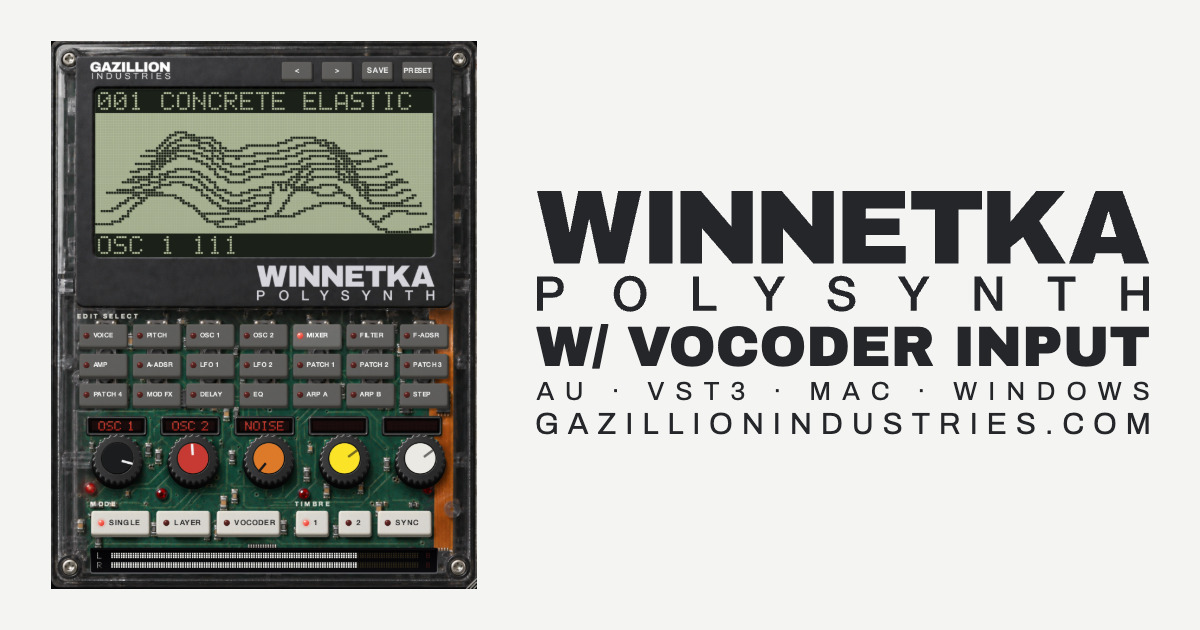
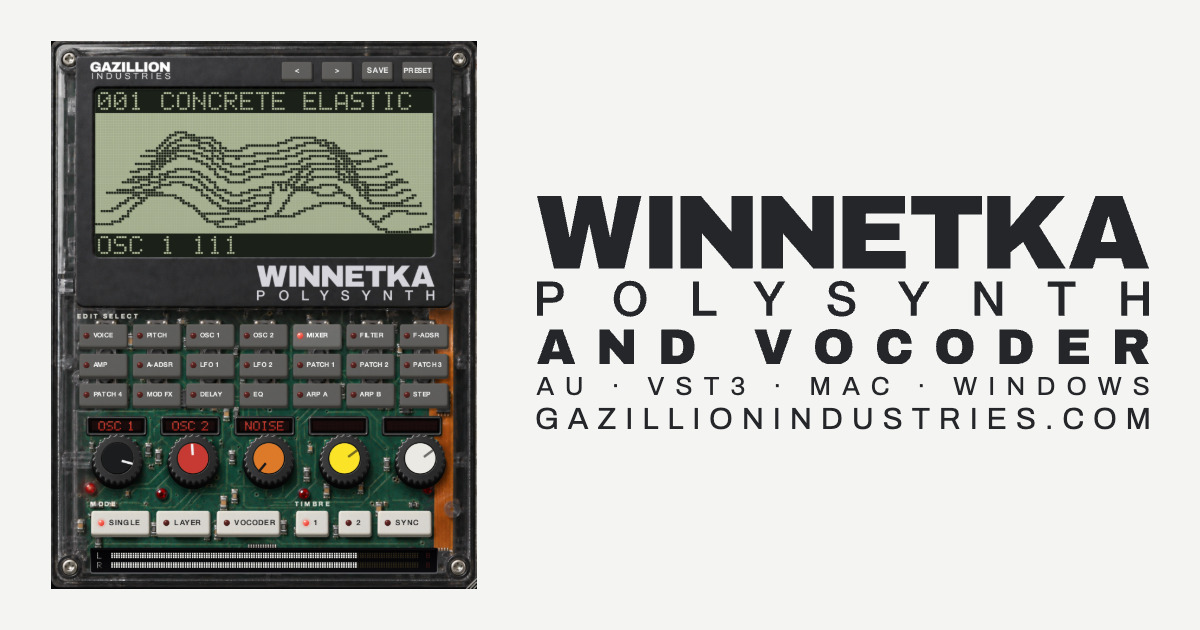
Unify WINNETKA polysynth and vocoder lockup

Changed region(s): [[0.4317, 0.3016, 0.9558, 0.6937]]

diff --git a/winnetka/index.html b/winnetka/index.html
@@ -279,8 +279,7 @@ fbq('track', 'PageView');
 <main>
 <section class="hero" aria-label="WINNETKA polysynth">
 <img class="panel" src="panel.webp" width="1440" height="1856" alt="WINNETKA's clear shell, live spectrum display, grey edit buttons, red parameter displays and five coloured knob caps." fetchpriority="high">
-<h1 class="lockup" aria-label="WINNETKA polysynth"><svg xmlns="http://www.w3.org/2000/svg" viewBox="0 0 150 29.5741"><path fill="#d6d6dc" fill-rule="nonzero" d="M15.139 17.7741 L12.8397 6.94948 L12.7364 6.94948 L10.4371 17.7741 L4.15935 17.7741 L0 0 L5.94193 0 L7.98285 10.0754 L8.0862 10.0754 L10.1013 0 L15.7332 0 L17.8774 10.0754 L17.9808 10.0754 L19.8925 0 L25.5761 0 L21.4168 17.7741 L15.139 17.7741 Z M27.5312 17.7741 L27.5312 0 L33.2407 0 L33.2407 17.7741 L27.5312 17.7741 Z M47.9064 17.7741 L40.4402 9.1454 L40.4402 17.7741 L35.1958 17.7741 L35.1958 0 L40.1819 0 L47.648 8.75789 L47.648 0 L52.8924 0 L52.8924 17.7741 L47.9064 17.7741 Z M67.7359 17.7741 L60.2697 9.1454 L60.2697 17.7741 L55.0253 17.7741 L55.0253 0 L60.0114 0 L67.4775 8.75789 L67.4775 0 L72.7219 0 L72.7219 17.7741 L67.7359 17.7741 Z M74.8548 0 L90.2263 0 L90.2263 4.2627 L80.5642 4.2627 L80.5642 6.71696 L88.8312 6.71696 L88.8312 10.7988 L80.5642 10.7988 L80.5642 13.5114 L90.4071 13.5114 L90.4071 17.7741 L74.8548 17.7741 L74.8548 0 Z M103.288 4.54688 L103.288 17.7741 L97.5788 17.7741 L97.5788 4.54688 L91.7402 4.54688 L91.7402 0 L109.101 0 L109.101 4.54688 L103.288 4.54688 Z M122.384 0 L129.463 0 L123.082 7.31116 L129.592 17.7741 L122.849 17.7741 L119.155 11.2638 L116.055 13.7956 L116.055 17.7741 L110.345 17.7741 L110.345 0 L116.055 0 L116.055 7.59534 L122.384 0 Z M143.955 17.7741 L143.206 15.2682 L136.979 15.2682 L136.23 17.7741 L130.392 17.7741 L136.876 0 L143.516 0 L150 17.7741 L143.955 17.7741 Z M138.168 11.2897 L142.017 11.2897 L140.157 4.96022 L140.054 4.96022 L138.168 11.2897 Z M0 20.9741 L3.70589 20.9741 Q4.60001 20.9741 5.1647 21.2329 Q5.72942 21.4918 6.03529 21.88 Q6.34117 22.2682 6.45294 22.7271 Q6.5647 23.1859 6.5647 23.5741 Q6.5647 23.9624 6.45294 24.4153 Q6.34117 24.8682 6.03529 25.2565 Q5.72942 25.6447 5.1647 25.8976 Q4.60001 26.1506 3.70589 26.1506 L1.47058 26.1506 L1.47058 29.3741 L0 29.3741 L0 20.9741 Z M1.47058 24.9506 L3.62354 24.9506 Q3.87059 24.9506 4.12941 24.88 Q4.38823 24.8094 4.60588 24.6506 Q4.82353 24.4918 4.95882 24.2271 Q5.09412 23.9624 5.09412 23.5623 Q5.09412 23.1506 4.97647 22.88 Q4.85883 22.6094 4.65883 22.4506 Q4.45882 22.2918 4.2 22.2329 Q3.94118 22.1741 3.64706 22.1741 L1.47058 22.1741 L1.47058 24.9506 Z M22.8268 21.9741 Q22.1563 21.9741 21.668 22.2447 Q21.1798 22.5153 20.8739 22.9682 Q20.568 23.4212 20.421 23.9977 Q20.2739 24.5741 20.2739 25.1741 Q20.2739 25.7741 20.421 26.3506 Q20.568 26.9271 20.8739 27.38 Q21.1798 27.8329 21.668 28.1035 Q22.1563 28.3741 22.8268 28.3741 Q23.4974 28.3741 23.9857 28.1035 Q24.4739 27.8329 24.7798 27.38 Q25.0857 26.9271 25.2327 26.3506 Q25.3798 25.7741 25.3798 25.1741 Q25.3798 24.5741 25.2327 23.9977 Q25.0857 23.4212 24.7798 22.9682 Q24.4739 22.5153 23.9857 22.2447 Q23.4974 21.9741 22.8268 21.9741 Z M22.8268 20.7741 Q23.768 20.7741 24.5151 21.1271 Q25.2621 21.48 25.7798 22.08 Q26.2974 22.68 26.5739 23.48 Q26.8504 24.28 26.8504 25.1741 Q26.8504 26.08 26.5739 26.88 Q26.2974 27.68 25.7798 28.28 Q25.2621 28.88 24.5151 29.2271 Q23.768 29.5741 22.8268 29.5741 Q21.8857 29.5741 21.1386 29.2271 Q20.3916 28.88 19.8739 28.28 Q19.3563 27.68 19.0798 26.88 Q18.8033 26.08 18.8033 25.1741 Q18.8033 24.28 19.0798 23.48 Q19.3563 22.68 19.8739 22.08 Q20.3916 21.48 21.1386 21.1271 Q21.8857 20.7741 22.8268 20.7741 Z M38.2323 20.9741 L39.7029 20.9741 L39.7029 28.1035 L43.9735 28.1035 L43.9735 29.3741 L38.2323 29.3741 L38.2323 20.9741 Z M56.183 26.08 L53.03 20.9741 L54.7359 20.9741 L56.9594 24.7388 L59.1477 20.9741 L60.7947 20.9741 L57.6536 26.08 L57.6536 29.3741 L56.183 29.3741 L56.183 26.08 Z M72.6681 26.5741 Q72.6681 27.0565 72.8328 27.3976 Q72.9975 27.7388 73.2917 27.9565 Q73.5858 28.1741 73.9681 28.2741 Q74.3505 28.3741 74.7975 28.3741 Q75.2799 28.3741 75.6211 28.2623 Q75.9622 28.1506 76.174 27.9741 Q76.3858 27.7976 76.4799 27.5682 Q76.574 27.3388 76.574 27.1035 Q76.574 26.6212 76.3564 26.3918 Q76.1387 26.1624 75.8799 26.0682 Q75.4328 25.9035 74.8387 25.7565 Q74.2446 25.6094 73.374 25.3741 Q72.8328 25.2329 72.474 25.0035 Q72.1152 24.7741 71.9034 24.4918 Q71.6917 24.2094 71.6034 23.8918 Q71.5152 23.5741 71.5152 23.2447 Q71.5152 22.6094 71.7799 22.1447 Q72.0446 21.68 72.4799 21.3741 Q72.9152 21.0682 73.4681 20.9212 Q74.0211 20.7741 74.5858 20.7741 Q75.2446 20.7741 75.827 20.9447 Q76.4093 21.1153 76.8505 21.4565 Q77.2917 21.7976 77.5505 22.2976 Q77.8093 22.7976 77.8093 23.4565 L76.3387 23.4565 Q76.2799 22.6447 75.7858 22.3094 Q75.2917 21.9741 74.527 21.9741 Q74.2681 21.9741 73.9975 22.0271 Q73.727 22.08 73.5034 22.2035 Q73.2799 22.3271 73.1328 22.5388 Q72.9858 22.7506 72.9858 23.0682 Q72.9858 23.5153 73.2623 23.7682 Q73.5387 24.0212 73.9858 24.1506 Q74.0328 24.1624 74.3564 24.2506 Q74.6799 24.3388 75.0799 24.4447 Q75.4799 24.5506 75.8623 24.6506 Q76.2446 24.7506 76.4093 24.7976 Q76.8211 24.9271 77.127 25.1506 Q77.4328 25.3741 77.6387 25.6624 Q77.8446 25.9506 77.9446 26.28 Q78.0446 26.6094 78.0446 26.9388 Q78.0446 27.6447 77.7564 28.1447 Q77.4681 28.6447 76.9975 28.9624 Q76.527 29.28 75.927 29.4271 Q75.327 29.5741 74.7034 29.5741 Q73.9858 29.5741 73.3505 29.3976 Q72.7152 29.2212 72.2446 28.8565 Q71.774 28.4918 71.4917 27.9212 Q71.2093 27.3506 71.1975 26.5741 L72.6681 26.5741 Z M91.6004 26.08 L88.4474 20.9741 L90.1533 20.9741 L92.3768 24.7388 L94.5651 20.9741 L96.2121 20.9741 L93.071 26.08 L93.071 29.3741 L91.6004 29.3741 L91.6004 26.08 Z M107.227 20.9741 L108.78 20.9741 L112.615 27.1624 L112.639 27.1624 L112.639 20.9741 L114.039 20.9741 L114.039 29.3741 L112.486 29.3741 L108.662 23.1976 L108.627 23.1976 L108.627 29.3741 L107.227 29.3741 L107.227 20.9741 Z M125.176 20.9741 L131.976 20.9741 L131.976 22.2447 L129.305 22.2447 L129.305 29.3741 L127.835 29.3741 L127.835 22.2447 L125.176 22.2447 L125.176 20.9741 Z M143.235 20.9741 L144.706 20.9741 L144.706 24.3153 L148.529 24.3153 L148.529 20.9741 L150 20.9741 L150 29.3741 L148.529 29.3741 L148.529 25.5859 L144.706 25.5859 L144.706 29.3741 L143.235 29.3741 L143.235 20.9741 Z"/></svg></h1>
-<p class="tagline">w/ vocoder input</p>
+<h1 class="lockup" aria-label="WINNETKA polysynth and vocoder"><svg xmlns="http://www.w3.org/2000/svg" viewBox="0 0 150 41.3741"><path fill="currentColor" fill-rule="nonzero" d="M15.139 17.7741 L12.8397 6.94948 L12.7364 6.94948 L10.4371 17.7741 L4.15935 17.7741 L0 0 L5.94193 0 L7.98285 10.0754 L8.0862 10.0754 L10.1013 0 L15.7332 0 L17.8774 10.0754 L17.9808 10.0754 L19.8925 0 L25.5761 0 L21.4168 17.7741 L15.139 17.7741 Z M27.5312 17.7741 L27.5312 0 L33.2407 0 L33.2407 17.7741 L27.5312 17.7741 Z M47.9064 17.7741 L40.4402 9.1454 L40.4402 17.7741 L35.1958 17.7741 L35.1958 0 L40.1819 0 L47.648 8.75789 L47.648 0 L52.8924 0 L52.8924 17.7741 L47.9064 17.7741 Z M67.7359 17.7741 L60.2697 9.1454 L60.2697 17.7741 L55.0253 17.7741 L55.0253 0 L60.0114 0 L67.4775 8.75789 L67.4775 0 L72.7219 0 L72.7219 17.7741 L67.7359 17.7741 Z M74.8548 0 L90.2263 0 L90.2263 4.2627 L80.5642 4.2627 L80.5642 6.71696 L88.8312 6.71696 L88.8312 10.7988 L80.5642 10.7988 L80.5642 13.5114 L90.4071 13.5114 L90.4071 17.7741 L74.8548 17.7741 L74.8548 0 Z M103.288 4.54688 L103.288 17.7741 L97.5788 17.7741 L97.5788 4.54688 L91.7402 4.54688 L91.7402 0 L109.101 0 L109.101 4.54688 L103.288 4.54688 Z M122.384 0 L129.463 0 L123.082 7.31116 L129.592 17.7741 L122.849 17.7741 L119.155 11.2638 L116.055 13.7956 L116.055 17.7741 L110.345 17.7741 L110.345 0 L116.055 0 L116.055 7.59534 L122.384 0 Z M143.955 17.7741 L143.206 15.2682 L136.979 15.2682 L136.23 17.7741 L130.392 17.7741 L136.876 0 L143.516 0 L150 17.7741 L143.955 17.7741 Z M138.168 11.2897 L142.017 11.2897 L140.157 4.96022 L140.054 4.96022 L138.168 11.2897 Z M0 20.9741 L3.70589 20.9741 Q4.60001 20.9741 5.1647 21.2329 Q5.72942 21.4918 6.03529 21.88 Q6.34117 22.2682 6.45294 22.7271 Q6.5647 23.1859 6.5647 23.5741 Q6.5647 23.9624 6.45294 24.4153 Q6.34117 24.8682 6.03529 25.2565 Q5.72942 25.6447 5.1647 25.8976 Q4.60001 26.1506 3.70589 26.1506 L1.47058 26.1506 L1.47058 29.3741 L0 29.3741 L0 20.9741 Z M1.47058 24.9506 L3.62354 24.9506 Q3.87059 24.9506 4.12941 24.88 Q4.38823 24.8094 4.60588 24.6506 Q4.82353 24.4918 4.95882 24.2271 Q5.09412 23.9624 5.09412 23.5623 Q5.09412 23.1506 4.97647 22.88 Q4.85883 22.6094 4.65883 22.4506 Q4.45882 22.2918 4.2 22.2329 Q3.94118 22.1741 3.64706 22.1741 L1.47058 22.1741 L1.47058 24.9506 Z M22.8268 21.9741 Q22.1563 21.9741 21.668 22.2447 Q21.1798 22.5153 20.8739 22.9682 Q20.568 23.4212 20.421 23.9977 Q20.2739 24.5741 20.2739 25.1741 Q20.2739 25.7741 20.421 26.3506 Q20.568 26.9271 20.8739 27.38 Q21.1798 27.8329 21.668 28.1035 Q22.1563 28.3741 22.8268 28.3741 Q23.4974 28.3741 23.9857 28.1035 Q24.4739 27.8329 24.7798 27.38 Q25.0857 26.9271 25.2327 26.3506 Q25.3798 25.7741 25.3798 25.1741 Q25.3798 24.5741 25.2327 23.9977 Q25.0857 23.4212 24.7798 22.9682 Q24.4739 22.5153 23.9857 22.2447 Q23.4974 21.9741 22.8268 21.9741 Z M22.8268 20.7741 Q23.768 20.7741 24.5151 21.1271 Q25.2621 21.48 25.7798 22.08 Q26.2974 22.68 26.5739 23.48 Q26.8504 24.28 26.8504 25.1741 Q26.8504 26.08 26.5739 26.88 Q26.2974 27.68 25.7798 28.28 Q25.2621 28.88 24.5151 29.2271 Q23.768 29.5741 22.8268 29.5741 Q21.8857 29.5741 21.1386 29.2271 Q20.3916 28.88 19.8739 28.28 Q19.3563 27.68 19.0798 26.88 Q18.8033 26.08 18.8033 25.1741 Q18.8033 24.28 19.0798 23.48 Q19.3563 22.68 19.8739 22.08 Q20.3916 21.48 21.1386 21.1271 Q21.8857 20.7741 22.8268 20.7741 Z M38.2323 20.9741 L39.7029 20.9741 L39.7029 28.1035 L43.9735 28.1035 L43.9735 29.3741 L38.2323 29.3741 L38.2323 20.9741 Z M56.183 26.08 L53.03 20.9741 L54.7359 20.9741 L56.9594 24.7388 L59.1477 20.9741 L60.7947 20.9741 L57.6536 26.08 L57.6536 29.3741 L56.183 29.3741 L56.183 26.08 Z M72.6681 26.5741 Q72.6681 27.0565 72.8328 27.3976 Q72.9975 27.7388 73.2917 27.9565 Q73.5858 28.1741 73.9681 28.2741 Q74.3505 28.3741 74.7975 28.3741 Q75.2799 28.3741 75.6211 28.2623 Q75.9622 28.1506 76.174 27.9741 Q76.3858 27.7976 76.4799 27.5682 Q76.574 27.3388 76.574 27.1035 Q76.574 26.6212 76.3564 26.3918 Q76.1387 26.1624 75.8799 26.0682 Q75.4328 25.9035 74.8387 25.7565 Q74.2446 25.6094 73.374 25.3741 Q72.8328 25.2329 72.474 25.0035 Q72.1152 24.7741 71.9034 24.4918 Q71.6917 24.2094 71.6034 23.8918 Q71.5152 23.5741 71.5152 23.2447 Q71.5152 22.6094 71.7799 22.1447 Q72.0446 21.68 72.4799 21.3741 Q72.9152 21.0682 73.4681 20.9212 Q74.0211 20.7741 74.5858 20.7741 Q75.2446 20.7741 75.827 20.9447 Q76.4093 21.1153 76.8505 21.4565 Q77.2917 21.7976 77.5505 22.2976 Q77.8093 22.7976 77.8093 23.4565 L76.3387 23.4565 Q76.2799 22.6447 75.7858 22.3094 Q75.2917 21.9741 74.527 21.9741 Q74.2681 21.9741 73.9975 22.0271 Q73.727 22.08 73.5034 22.2035 Q73.2799 22.3271 73.1328 22.5388 Q72.9858 22.7506 72.9858 23.0682 Q72.9858 23.5153 73.2623 23.7682 Q73.5387 24.0212 73.9858 24.1506 Q74.0328 24.1624 74.3564 24.2506 Q74.6799 24.3388 75.0799 24.4447 Q75.4799 24.5506 75.8623 24.6506 Q76.2446 24.7506 76.4093 24.7976 Q76.8211 24.9271 77.127 25.1506 Q77.4328 25.3741 77.6387 25.6624 Q77.8446 25.9506 77.9446 26.28 Q78.0446 26.6094 78.0446 26.9388 Q78.0446 27.6447 77.7564 28.1447 Q77.4681 28.6447 76.9975 28.9624 Q76.527 29.28 75.927 29.4271 Q75.327 29.5741 74.7034 29.5741 Q73.9858 29.5741 73.3505 29.3976 Q72.7152 29.2212 72.2446 28.8565 Q71.774 28.4918 71.4917 27.9212 Q71.2093 27.3506 71.1975 26.5741 L72.6681 26.5741 Z M91.6004 26.08 L88.4474 20.9741 L90.1533 20.9741 L92.3768 24.7388 L94.5651 20.9741 L96.2121 20.9741 L93.071 26.08 L93.071 29.3741 L91.6004 29.3741 L91.6004 26.08 Z M107.227 20.9741 L108.78 20.9741 L112.615 27.1624 L112.639 27.1624 L112.639 20.9741 L114.039 20.9741 L114.039 29.3741 L112.486 29.3741 L108.662 23.1976 L108.627 23.1976 L108.627 29.3741 L107.227 29.3741 L107.227 20.9741 Z M125.176 20.9741 L131.976 20.9741 L131.976 22.2447 L129.305 22.2447 L129.305 29.3741 L127.835 29.3741 L127.835 22.2447 L125.176 22.2447 L125.176 20.9741 Z M143.235 20.9741 L144.706 20.9741 L144.706 24.3153 L148.529 24.3153 L148.529 20.9741 L150 20.9741 L150 29.3741 L148.529 29.3741 L148.529 25.5859 L144.706 25.5859 L144.706 29.3741 L143.235 29.3741 L143.235 20.9741 Z"/><path fill="currentColor" d="M6.488764044943821 41.225785393258434 6.130337078651686 40.02690898876405H3.1516853932584272L2.7932584269662923 41.225785393258434H0.0L3.1022471910112364 32.72241460674158H6.2786516853932595L9.380898876404496 41.225785393258434ZM3.720224719101124 38.1235382022472H5.56179775280899L4.6719101123595514 35.09544831460675H4.62247191011236Z M21.376292134831463 41.225785393258434 17.80438202247191 37.097695505617985V41.225785393258434H15.295393258426966V32.72241460674158H17.68078651685393L21.252696629213485 36.912302247191015V32.72241460674158H23.76168539325843V41.225785393258434Z M38.624494382022476 36.97410000000001Q38.624494382022476 41.225785393258434 34.162696629213485 41.225785393258434H30.479550561797755V32.72241460674158H34.162696629213485Q38.624494382022476 32.72241460674158 38.624494382022476 36.97410000000001ZM33.211011235955056 39.18645955056181H34.1132584269663Q35.83123595505618 39.18645955056181 35.83123595505618 37.34488651685394V36.603313483146074Q35.83123595505618 34.76174044943821 34.1132584269663 34.76174044943821H33.211011235955056Z M56.29955056179776 41.225785393258434 53.28382022471911 32.72241460674158H56.200674157303375L57.90629213483147 38.40780786516854H57.955730337078656L59.673707865168545 32.72241460674158H62.466966292134835L59.46359550561798 41.225785393258434Z M77.31741573033709 36.97410000000001Q77.31741573033709 39.124661797752815 76.1185393258427 40.24938089887641Q74.91966292134832 41.374100000000006 72.71966292134833 41.374100000000006Q70.51966292134833 41.374100000000006 69.32696629213484 40.25556067415731Q68.13426966292135 39.13702134831461 68.13426966292135 36.97410000000001Q68.13426966292135 34.811178651685395 69.32696629213484 33.6926393258427Q70.51966292134833 32.5741 72.71966292134833 32.5741Q74.91966292134832 32.5741 76.1185393258427 33.698819101123604Q77.31741573033709 34.8235382022472 77.31741573033709 36.97410000000001ZM70.92752808988764 36.57859438202248V37.369605617977534Q70.92752808988764 38.27185280898877 71.38483146067416 38.80331348314607Q71.84213483146068 39.33477415730338 72.71966292134833 39.33477415730338Q73.59719101123596 39.33477415730338 74.06067415730338 38.80331348314607Q74.5241573033708 38.27185280898877 74.5241573033708 37.369605617977534V36.57859438202248Q74.5241573033708 35.676347191011246 74.06067415730338 35.144886516853944Q73.59719101123596 34.613425842696635 72.71966292134833 34.613425842696635Q71.84213483146068 34.613425842696635 71.38483146067416 35.144886516853944Q70.92752808988764 35.676347191011246 70.92752808988764 36.57859438202248Z M91.82179775280899 36.220167415730344H89.21393258426967Q89.21393258426967 35.47859438202248 88.82460674157304 35.04601011235955Q88.43528089887641 34.613425842696635 87.71842696629214 34.613425842696635Q86.8903370786517 34.613425842696635 86.50101123595506 35.13252696629214Q86.11168539325843 35.651628089887645 86.11168539325843 36.57859438202248V37.369605617977534Q86.11168539325843 38.284212359550565 86.50101123595506 38.80949325842697Q86.8903370786517 39.33477415730338 87.69370786516855 39.33477415730338Q88.4847191011236 39.33477415730338 88.89258426966293 38.926908988764055Q89.30044943820225 38.519043820224724 89.30044943820225 37.77747078651686H91.82179775280899Q91.82179775280899 39.52016741573034 90.75269662921349 40.44713370786518Q89.68359550561799 41.374100000000006 87.73078651685394 41.374100000000006Q85.55550561797753 41.374100000000006 84.43696629213483 40.26174044943821Q83.31842696629214 39.14938089887641 83.31842696629214 36.97410000000001Q83.31842696629214 34.7988191011236 84.43696629213483 33.6864595505618Q85.55550561797753 32.5741 87.73078651685394 32.5741Q89.62179775280899 32.5741 90.72179775280898 33.51960561797753Q91.82179775280899 34.465111235955064 91.82179775280899 36.220167415730344Z M107.00595505617979 36.97410000000001Q107.00595505617979 39.124661797752815 105.8070786516854 40.24938089887641Q104.60820224719102 41.374100000000006 102.40820224719103 41.374100000000006Q100.20820224719102 41.374100000000006 99.01550561797754 40.25556067415731Q97.82280898876405 39.13702134831461 97.82280898876405 36.97410000000001Q97.82280898876405 34.811178651685395 99.01550561797754 33.6926393258427Q100.20820224719102 32.5741 102.40820224719103 32.5741Q104.60820224719102 32.5741 105.8070786516854 33.698819101123604Q107.00595505617979 34.8235382022472 107.00595505617979 36.97410000000001ZM100.61606741573034 36.57859438202248V37.369605617977534Q100.61606741573034 38.27185280898877 101.07337078651686 38.80331348314607Q101.53067415730338 39.33477415730338 102.40820224719103 39.33477415730338Q103.28573033707866 39.33477415730338 103.74921348314608 38.80331348314607Q104.2126966292135 38.27185280898877 104.2126966292135 37.369605617977534V36.57859438202248Q104.2126966292135 35.676347191011246 103.74921348314608 35.144886516853944Q103.28573033707866 34.613425842696635 102.40820224719103 34.613425842696635Q101.53067415730338 34.613425842696635 101.07337078651686 35.144886516853944Q100.61606741573034 35.676347191011246 100.61606741573034 36.57859438202248Z M121.51033707865169 36.97410000000001Q121.51033707865169 41.225785393258434 117.0485393258427 41.225785393258434H113.36539325842698V32.72241460674158H117.0485393258427Q121.51033707865169 32.72241460674158 121.51033707865169 36.97410000000001ZM116.09685393258428 39.18645955056181H116.99910112359551Q118.7170786516854 39.18645955056181 118.7170786516854 37.34488651685394V36.603313483146074Q118.7170786516854 34.76174044943821 116.99910112359551 34.76174044943821H116.09685393258428Z M127.86977528089889 32.72241460674158H135.22370786516856V34.76174044943821H130.60123595505618V35.935897752809H134.55629213483147V37.88870674157304H130.60123595505618V39.18645955056181H135.31022471910114V41.225785393258434H127.86977528089889Z M148.10898876404494 37.66623483146068 150.0 41.225785393258434H146.93483146067413L145.4269662921348 38.1235382022472H144.4134831460674V41.225785393258434H141.6820224719101V32.72241460674158H146.88539325842694Q147.79999999999998 32.72241460674158 148.44887640449437 33.07466179775282Q149.09775280898876 33.426908988764055 149.4252808988764 34.02634719101124Q149.75280898876403 34.62578539325843 149.75280898876403 35.33027977528091Q149.75280898876403 36.108931460674164 149.3325842696629 36.73926853932585Q148.91235955056177 37.369605617977534 148.10898876404494 37.66623483146068ZM146.20561797752808 34.662864044943824H144.4134831460674V36.23252696629214H146.20561797752808Q146.52696629213483 36.23252696629214 146.74943820224718 36.00387528089888Q146.97191011235952 35.77522359550562 146.97191011235952 35.44151573033709Q146.97191011235952 35.107807865168546 146.74943820224718 34.885335955056185Q146.52696629213483 34.662864044943824 146.20561797752808 34.662864044943824Z"/></svg></h1>
 <div class="thesis">
 <p>the thesis is simple:<br>
 maximum fun<br>

diff --git a/index.html b/index.html
@@ -595,6 +595,8 @@ a{color:inherit;text-decoration:none}
 @media (prefers-reduced-motion:reduce){
   *{transition:none !important; animation:none !important}
 }
+
+.winnetka-lockup{height:calc(var(--cap) * 1.18 + 28.5px);margin:0 0 9px;display:flex;align-items:center;justify-content:center;color:var(--ink)}.winnetka-lockup svg{display:block;max-width:100%;width:auto;height:100%}.winnetka-lockup path{fill:currentColor}
 </style>
 </head>
 <body>
@@ -621,9 +623,7 @@ a{color:inherit;text-decoration:none}
         <a class="cardlink" href="/winnetka/" data-product="winnetka" data-name="WINNETKA" data-value="49.00" aria-label="WINNETKA, polysynth and vocoder. $49."></a>
         <div class="shot"><img src="winnetka/panel.webp" width="1440" height="1856" alt="WINNETKA polysynth in its clear shell." decoding="async"></div>
         <div class="legend">
-          <p class="mark" style="--markr:1"><svg xmlns="http://www.w3.org/2000/svg" viewBox="0 0 150 17.7741"><path fill="currentColor" fill-rule="nonzero" d="M15.139 17.7741 L12.8397 6.94948 L12.7364 6.94948 L10.4371 17.7741 L4.15935 17.7741 L0 0 L5.94193 0 L7.98285 10.0754 L8.0862 10.0754 L10.1013 0 L15.7332 0 L17.8774 10.0754 L17.9808 10.0754 L19.8925 0 L25.5761 0 L21.4168 17.7741 L15.139 17.7741 Z M27.5312 17.7741 L27.5312 0 L33.2407 0 L33.2407 17.7741 L27.5312 17.7741 Z M47.9064 17.7741 L40.4402 9.1454 L40.4402 17.7741 L35.1958 17.7741 L35.1958 0 L40.1819 0 L47.648 8.75789 L47.648 0 L52.8924 0 L52.8924 17.7741 L47.9064 17.7741 Z M67.7359 17.7741 L60.2697 9.1454 L60.2697 17.7741 L55.0253 17.7741 L55.0253 0 L60.0114 0 L67.4775 8.75789 L67.4775 0 L72.7219 0 L72.7219 17.7741 L67.7359 17.7741 Z M74.8548 0 L90.2263 0 L90.2263 4.2627 L80.5642 4.2627 L80.5642 6.71696 L88.8312 6.71696 L88.8312 10.7988 L80.5642 10.7988 L80.5642 13.5114 L90.4071 13.5114 L90.4071 17.7741 L74.8548 17.7741 L74.8548 0 Z M103.288 4.54688 L103.288 17.7741 L97.5788 17.7741 L97.5788 4.54688 L91.7402 4.54688 L91.7402 0 L109.101 0 L109.101 4.54688 L103.288 4.54688 Z M122.384 0 L129.463 0 L123.082 7.31116 L129.592 17.7741 L122.849 17.7741 L119.155 11.2638 L116.055 13.7956 L116.055 17.7741 L110.345 17.7741 L110.345 0 L116.055 0 L116.055 7.59534 L122.384 0 Z M143.955 17.7741 L143.206 15.2682 L136.979 15.2682 L136.23 17.7741 L130.392 17.7741 L136.876 0 L143.516 0 L150 17.7741 L143.955 17.7741 Z M138.168 11.2897 L142.017 11.2897 L140.157 4.96022 L140.054 4.96022 L138.168 11.2897 Z"/></svg></p>
-          <p class="jt sub">polysynth</p>
-          <p class="jt cat">w/ vocoder input</p>
+          <div class="winnetka-lockup" role="img" aria-label="WINNETKA polysynth and vocoder"><svg xmlns="http://www.w3.org/2000/svg" viewBox="0 0 150 41.3741"><path fill="currentColor" fill-rule="nonzero" d="M15.139 17.7741 L12.8397 6.94948 L12.7364 6.94948 L10.4371 17.7741 L4.15935 17.7741 L0 0 L5.94193 0 L7.98285 10.0754 L8.0862 10.0754 L10.1013 0 L15.7332 0 L17.8774 10.0754 L17.9808 10.0754 L19.8925 0 L25.5761 0 L21.4168 17.7741 L15.139 17.7741 Z M27.5312 17.7741 L27.5312 0 L33.2407 0 L33.2407 17.7741 L27.5312 17.7741 Z M47.9064 17.7741 L40.4402 9.1454 L40.4402 17.7741 L35.1958 17.7741 L35.1958 0 L40.1819 0 L47.648 8.75789 L47.648 0 L52.8924 0 L52.8924 17.7741 L47.9064 17.7741 Z M67.7359 17.7741 L60.2697 9.1454 L60.2697 17.7741 L55.0253 17.7741 L55.0253 0 L60.0114 0 L67.4775 8.75789 L67.4775 0 L72.7219 0 L72.7219 17.7741 L67.7359 17.7741 Z M74.8548 0 L90.2263 0 L90.2263 4.2627 L80.5642 4.2627 L80.5642 6.71696 L88.8312 6.71696 L88.8312 10.7988 L80.5642 10.7988 L80.5642 13.5114 L90.4071 13.5114 L90.4071 17.7741 L74.8548 17.7741 L74.8548 0 Z M103.288 4.54688 L103.288 17.7741 L97.5788 17.7741 L97.5788 4.54688 L91.7402 4.54688 L91.7402 0 L109.101 0 L109.101 4.54688 L103.288 4.54688 Z M122.384 0 L129.463 0 L123.082 7.31116 L129.592 17.7741 L122.849 17.7741 L119.155 11.2638 L116.055 13.7956 L116.055 17.7741 L110.345 17.7741 L110.345 0 L116.055 0 L116.055 7.59534 L122.384 0 Z M143.955 17.7741 L143.206 15.2682 L136.979 15.2682 L136.23 17.7741 L130.392 17.7741 L136.876 0 L143.516 0 L150 17.7741 L143.955 17.7741 Z M138.168 11.2897 L142.017 11.2897 L140.157 4.96022 L140.054 4.96022 L138.168 11.2897 Z M0 20.9741 L3.70589 20.9741 Q4.60001 20.9741 5.1647 21.2329 Q5.72942 21.4918 6.03529 21.88 Q6.34117 22.2682 6.45294 22.7271 Q6.5647 23.1859 6.5647 23.5741 Q6.5647 23.9624 6.45294 24.4153 Q6.34117 24.8682 6.03529 25.2565 Q5.72942 25.6447 5.1647 25.8976 Q4.60001 26.1506 3.70589 26.1506 L1.47058 26.1506 L1.47058 29.3741 L0 29.3741 L0 20.9741 Z M1.47058 24.9506 L3.62354 24.9506 Q3.87059 24.9506 4.12941 24.88 Q4.38823 24.8094 4.60588 24.6506 Q4.82353 24.4918 4.95882 24.2271 Q5.09412 23.9624 5.09412 23.5623 Q5.09412 23.1506 4.97647 22.88 Q4.85883 22.6094 4.65883 22.4506 Q4.45882 22.2918 4.2 22.2329 Q3.94118 22.1741 3.64706 22.1741 L1.47058 22.1741 L1.47058 24.9506 Z M22.8268 21.9741 Q22.1563 21.9741 21.668 22.2447 Q21.1798 22.5153 20.8739 22.9682 Q20.568 23.4212 20.421 23.9977 Q20.2739 24.5741 20.2739 25.1741 Q20.2739 25.7741 20.421 26.3506 Q20.568 26.9271 20.8739 27.38 Q21.1798 27.8329 21.668 28.1035 Q22.1563 28.3741 22.8268 28.3741 Q23.4974 28.3741 23.9857 28.1035 Q24.4739 27.8329 24.7798 27.38 Q25.0857 26.9271 25.2327 26.3506 Q25.3798 25.7741 25.3798 25.1741 Q25.3798 24.5741 25.2327 23.9977 Q25.0857 23.4212 24.7798 22.9682 Q24.4739 22.5153 23.9857 22.2447 Q23.4974 21.9741 22.8268 21.9741 Z M22.8268 20.7741 Q23.768 20.7741 24.5151 21.1271 Q25.2621 21.48 25.7798 22.08 Q26.2974 22.68 26.5739 23.48 Q26.8504 24.28 26.8504 25.1741 Q26.8504 26.08 26.5739 26.88 Q26.2974 27.68 25.7798 28.28 Q25.2621 28.88 24.5151 29.2271 Q23.768 29.5741 22.8268 29.5741 Q21.8857 29.5741 21.1386 29.2271 Q20.3916 28.88 19.8739 28.28 Q19.3563 27.68 19.0798 26.88 Q18.8033 26.08 18.8033 25.1741 Q18.8033 24.28 19.0798 23.48 Q19.3563 22.68 19.8739 22.08 Q20.3916 21.48 21.1386 21.1271 Q21.8857 20.7741 22.8268 20.7741 Z M38.2323 20.9741 L39.7029 20.9741 L39.7029 28.1035 L43.9735 28.1035 L43.9735 29.3741 L38.2323 29.3741 L38.2323 20.9741 Z M56.183 26.08 L53.03 20.9741 L54.7359 20.9741 L56.9594 24.7388 L59.1477 20.9741 L60.7947 20.9741 L57.6536 26.08 L57.6536 29.3741 L56.183 29.3741 L56.183 26.08 Z M72.6681 26.5741 Q72.6681 27.0565 72.8328 27.3976 Q72.9975 27.7388 73.2917 27.9565 Q73.5858 28.1741 73.9681 28.2741 Q74.3505 28.3741 74.7975 28.3741 Q75.2799 28.3741 75.6211 28.2623 Q75.9622 28.1506 76.174 27.9741 Q76.3858 27.7976 76.4799 27.5682 Q76.574 27.3388 76.574 27.1035 Q76.574 26.6212 76.3564 26.3918 Q76.1387 26.1624 75.8799 26.0682 Q75.4328 25.9035 74.8387 25.7565 Q74.2446 25.6094 73.374 25.3741 Q72.8328 25.2329 72.474 25.0035 Q72.1152 24.7741 71.9034 24.4918 Q71.6917 24.2094 71.6034 23.8918 Q71.5152 23.5741 71.5152 23.2447 Q71.5152 22.6094 71.7799 22.1447 Q72.0446 21.68 72.4799 21.3741 Q72.9152 21.0682 73.4681 20.9212 Q74.0211 20.7741 74.5858 20.7741 Q75.2446 20.7741 75.827 20.9447 Q76.4093 21.1153 76.8505 21.4565 Q77.2917 21.7976 77.5505 22.2976 Q77.8093 22.7976 77.8093 23.4565 L76.3387 23.4565 Q76.2799 22.6447 75.7858 22.3094 Q75.2917 21.9741 74.527 21.9741 Q74.2681 21.9741 73.9975 22.0271 Q73.727 22.08 73.5034 22.2035 Q73.2799 22.3271 73.1328 22.5388 Q72.9858 22.7506 72.9858 23.0682 Q72.9858 23.5153 73.2623 23.7682 Q73.5387 24.0212 73.9858 24.1506 Q74.0328 24.1624 74.3564 24.2506 Q74.6799 24.3388 75.0799 24.4447 Q75.4799 24.5506 75.8623 24.6506 Q76.2446 24.7506 76.4093 24.7976 Q76.8211 24.9271 77.127 25.1506 Q77.4328 25.3741 77.6387 25.6624 Q77.8446 25.9506 77.9446 26.28 Q78.0446 26.6094 78.0446 26.9388 Q78.0446 27.6447 77.7564 28.1447 Q77.4681 28.6447 76.9975 28.9624 Q76.527 29.28 75.927 29.4271 Q75.327 29.5741 74.7034 29.5741 Q73.9858 29.5741 73.3505 29.3976 Q72.7152 29.2212 72.2446 28.8565 Q71.774 28.4918 71.4917 27.9212 Q71.2093 27.3506 71.1975 26.5741 L72.6681 26.5741 Z M91.6004 26.08 L88.4474 20.9741 L90.1533 20.9741 L92.3768 24.7388 L94.5651 20.9741 L96.2121 20.9741 L93.071 26.08 L93.071 29.3741 L91.6004 29.3741 L91.6004 26.08 Z M107.227 20.9741 L108.78 20.9741 L112.615 27.1624 L112.639 27.1624 L112.639 20.9741 L114.039 20.9741 L114.039 29.3741 L112.486 29.3741 L108.662 23.1976 L108.627 23.1976 L108.627 29.3741 L107.227 29.3741 L107.227 20.9741 Z M125.176 20.9741 L131.976 20.9741 L131.976 22.2447 L129.305 22.2447 L129.305 29.3741 L127.835 29.3741 L127.835 22.2447 L125.176 22.2447 L125.176 20.9741 Z M143.235 20.9741 L144.706 20.9741 L144.706 24.3153 L148.529 24.3153 L148.529 20.9741 L150 20.9741 L150 29.3741 L148.529 29.3741 L148.529 25.5859 L144.706 25.5859 L144.706 29.3741 L143.235 29.3741 L143.235 20.9741 Z"/><path fill="currentColor" d="M6.488764044943821 41.225785393258434 6.130337078651686 40.02690898876405H3.1516853932584272L2.7932584269662923 41.225785393258434H0.0L3.1022471910112364 32.72241460674158H6.2786516853932595L9.380898876404496 41.225785393258434ZM3.720224719101124 38.1235382022472H5.56179775280899L4.6719101123595514 35.09544831460675H4.62247191011236Z M21.376292134831463 41.225785393258434 17.80438202247191 37.097695505617985V41.225785393258434H15.295393258426966V32.72241460674158H17.68078651685393L21.252696629213485 36.912302247191015V32.72241460674158H23.76168539325843V41.225785393258434Z M38.624494382022476 36.97410000000001Q38.624494382022476 41.225785393258434 34.162696629213485 41.225785393258434H30.479550561797755V32.72241460674158H34.162696629213485Q38.624494382022476 32.72241460674158 38.624494382022476 36.97410000000001ZM33.211011235955056 39.18645955056181H34.1132584269663Q35.83123595505618 39.18645955056181 35.83123595505618 37.34488651685394V36.603313483146074Q35.83123595505618 34.76174044943821 34.1132584269663 34.76174044943821H33.211011235955056Z M56.29955056179776 41.225785393258434 53.28382022471911 32.72241460674158H56.200674157303375L57.90629213483147 38.40780786516854H57.955730337078656L59.673707865168545 32.72241460674158H62.466966292134835L59.46359550561798 41.225785393258434Z M77.31741573033709 36.97410000000001Q77.31741573033709 39.124661797752815 76.1185393258427 40.24938089887641Q74.91966292134832 41.374100000000006 72.71966292134833 41.374100000000006Q70.51966292134833 41.374100000000006 69.32696629213484 40.25556067415731Q68.13426966292135 39.13702134831461 68.13426966292135 36.97410000000001Q68.13426966292135 34.811178651685395 69.32696629213484 33.6926393258427Q70.51966292134833 32.5741 72.71966292134833 32.5741Q74.91966292134832 32.5741 76.1185393258427 33.698819101123604Q77.31741573033709 34.8235382022472 77.31741573033709 36.97410000000001ZM70.92752808988764 36.57859438202248V37.369605617977534Q70.92752808988764 38.27185280898877 71.38483146067416 38.80331348314607Q71.84213483146068 39.33477415730338 72.71966292134833 39.33477415730338Q73.59719101123596 39.33477415730338 74.06067415730338 38.80331348314607Q74.5241573033708 38.27185280898877 74.5241573033708 37.369605617977534V36.57859438202248Q74.5241573033708 35.676347191011246 74.06067415730338 35.144886516853944Q73.59719101123596 34.613425842696635 72.71966292134833 34.613425842696635Q71.84213483146068 34.613425842696635 71.38483146067416 35.144886516853944Q70.92752808988764 35.676347191011246 70.92752808988764 36.57859438202248Z M91.82179775280899 36.220167415730344H89.21393258426967Q89.21393258426967 35.47859438202248 88.82460674157304 35.04601011235955Q88.43528089887641 34.613425842696635 87.71842696629214 34.613425842696635Q86.8903370786517 34.613425842696635 86.50101123595506 35.13252696629214Q86.11168539325843 35.651628089887645 86.11168539325843 36.57859438202248V37.369605617977534Q86.11168539325843 38.284212359550565 86.50101123595506 38.80949325842697Q86.8903370786517 39.33477415730338 87.69370786516855 39.33477415730338Q88.4847191011236 39.33477415730338 88.89258426966293 38.926908988764055Q89.30044943820225 38.519043820224724 89.30044943820225 37.77747078651686H91.82179775280899Q91.82179775280899 39.52016741573034 90.75269662921349 40.44713370786518Q89.68359550561799 41.374100000000006 87.73078651685394 41.374100000000006Q85.55550561797753 41.374100000000006 84.43696629213483 40.26174044943821Q83.31842696629214 39.14938089887641 83.31842696629214 36.97410000000001Q83.31842696629214 34.7988191011236 84.43696629213483 33.6864595505618Q85.55550561797753 32.5741 87.73078651685394 32.5741Q89.62179775280899 32.5741 90.72179775280898 33.51960561797753Q91.82179775280899 34.465111235955064 91.82179775280899 36.220167415730344Z M107.00595505617979 36.97410000000001Q107.00595505617979 39.124661797752815 105.8070786516854 40.24938089887641Q104.60820224719102 41.374100000000006 102.40820224719103 41.374100000000006Q100.20820224719102 41.374100000000006 99.01550561797754 40.25556067415731Q97.82280898876405 39.13702134831461 97.82280898876405 36.97410000000001Q97.82280898876405 34.811178651685395 99.01550561797754 33.6926393258427Q100.20820224719102 32.5741 102.40820224719103 32.5741Q104.60820224719102 32.5741 105.8070786516854 33.698819101123604Q107.00595505617979 34.8235382022472 107.00595505617979 36.97410000000001ZM100.61606741573034 36.57859438202248V37.369605617977534Q100.61606741573034 38.27185280898877 101.07337078651686 38.80331348314607Q101.53067415730338 39.33477415730338 102.40820224719103 39.33477415730338Q103.28573033707866 39.33477415730338 103.74921348314608 38.80331348314607Q104.2126966292135 38.27185280898877 104.2126966292135 37.369605617977534V36.57859438202248Q104.2126966292135 35.676347191011246 103.74921348314608 35.144886516853944Q103.28573033707866 34.613425842696635 102.40820224719103 34.613425842696635Q101.53067415730338 34.613425842696635 101.07337078651686 35.144886516853944Q100.61606741573034 35.676347191011246 100.61606741573034 36.57859438202248Z M121.51033707865169 36.97410000000001Q121.51033707865169 41.225785393258434 117.0485393258427 41.225785393258434H113.36539325842698V32.72241460674158H117.0485393258427Q121.51033707865169 32.72241460674158 121.51033707865169 36.97410000000001ZM116.09685393258428 39.18645955056181H116.99910112359551Q118.7170786516854 39.18645955056181 118.7170786516854 37.34488651685394V36.603313483146074Q118.7170786516854 34.76174044943821 116.99910112359551 34.76174044943821H116.09685393258428Z M127.86977528089889 32.72241460674158H135.22370786516856V34.76174044943821H130.60123595505618V35.935897752809H134.55629213483147V37.88870674157304H130.60123595505618V39.18645955056181H135.31022471910114V41.225785393258434H127.86977528089889Z M148.10898876404494 37.66623483146068 150.0 41.225785393258434H146.93483146067413L145.4269662921348 38.1235382022472H144.4134831460674V41.225785393258434H141.6820224719101V32.72241460674158H146.88539325842694Q147.79999999999998 32.72241460674158 148.44887640449437 33.07466179775282Q149.09775280898876 33.426908988764055 149.4252808988764 34.02634719101124Q149.75280898876403 34.62578539325843 149.75280898876403 35.33027977528091Q149.75280898876403 36.108931460674164 149.3325842696629 36.73926853932585Q148.91235955056177 37.369605617977534 148.10898876404494 37.66623483146068ZM146.20561797752808 34.662864044943824H144.4134831460674V36.23252696629214H146.20561797752808Q146.52696629213483 36.23252696629214 146.74943820224718 36.00387528089888Q146.97191011235952 35.77522359550562 146.97191011235952 35.44151573033709Q146.97191011235952 35.107807865168546 146.74943820224718 34.885335955056185Q146.52696629213483 34.662864044943824 146.20561797752808 34.662864044943824Z"/></svg></div>
           <p class="jt pitch">cool and calculated</p>
           <div class="ask">
             <p class="askline"><span class="money">$49</span><span class="formats" data-short="AU &middot; VST3 &middot; Mac &middot; Win">AU &middot; VST3 &middot; Standalone (Mac) &middot; macOS &middot; Windows</span></p>
